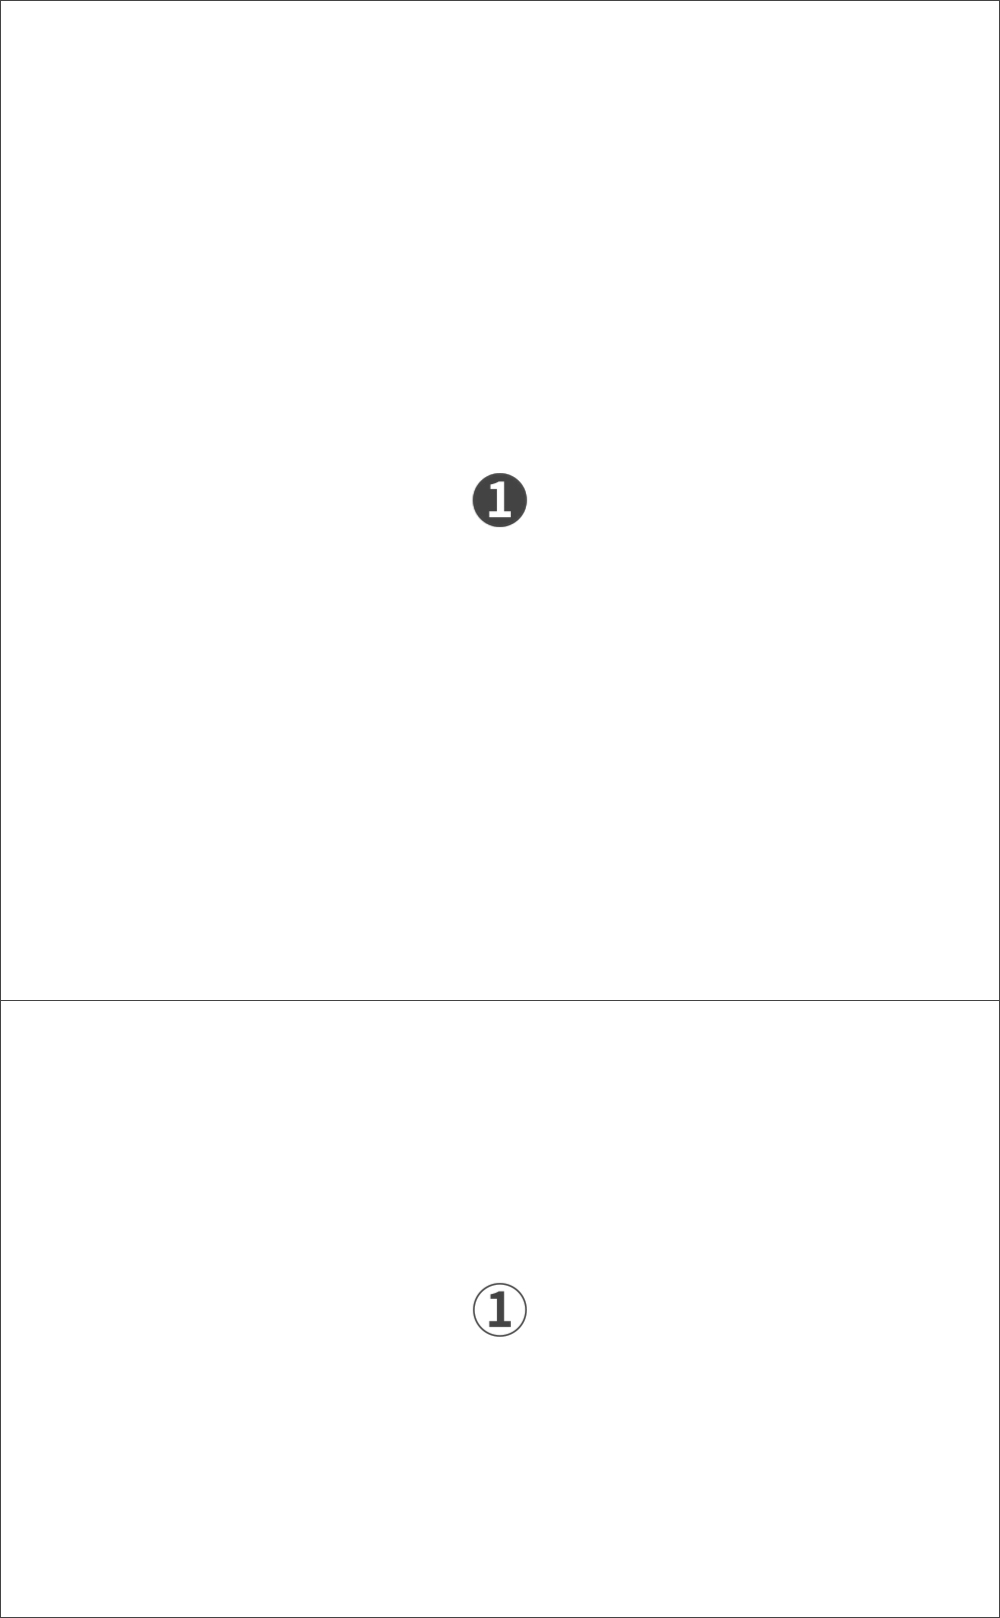
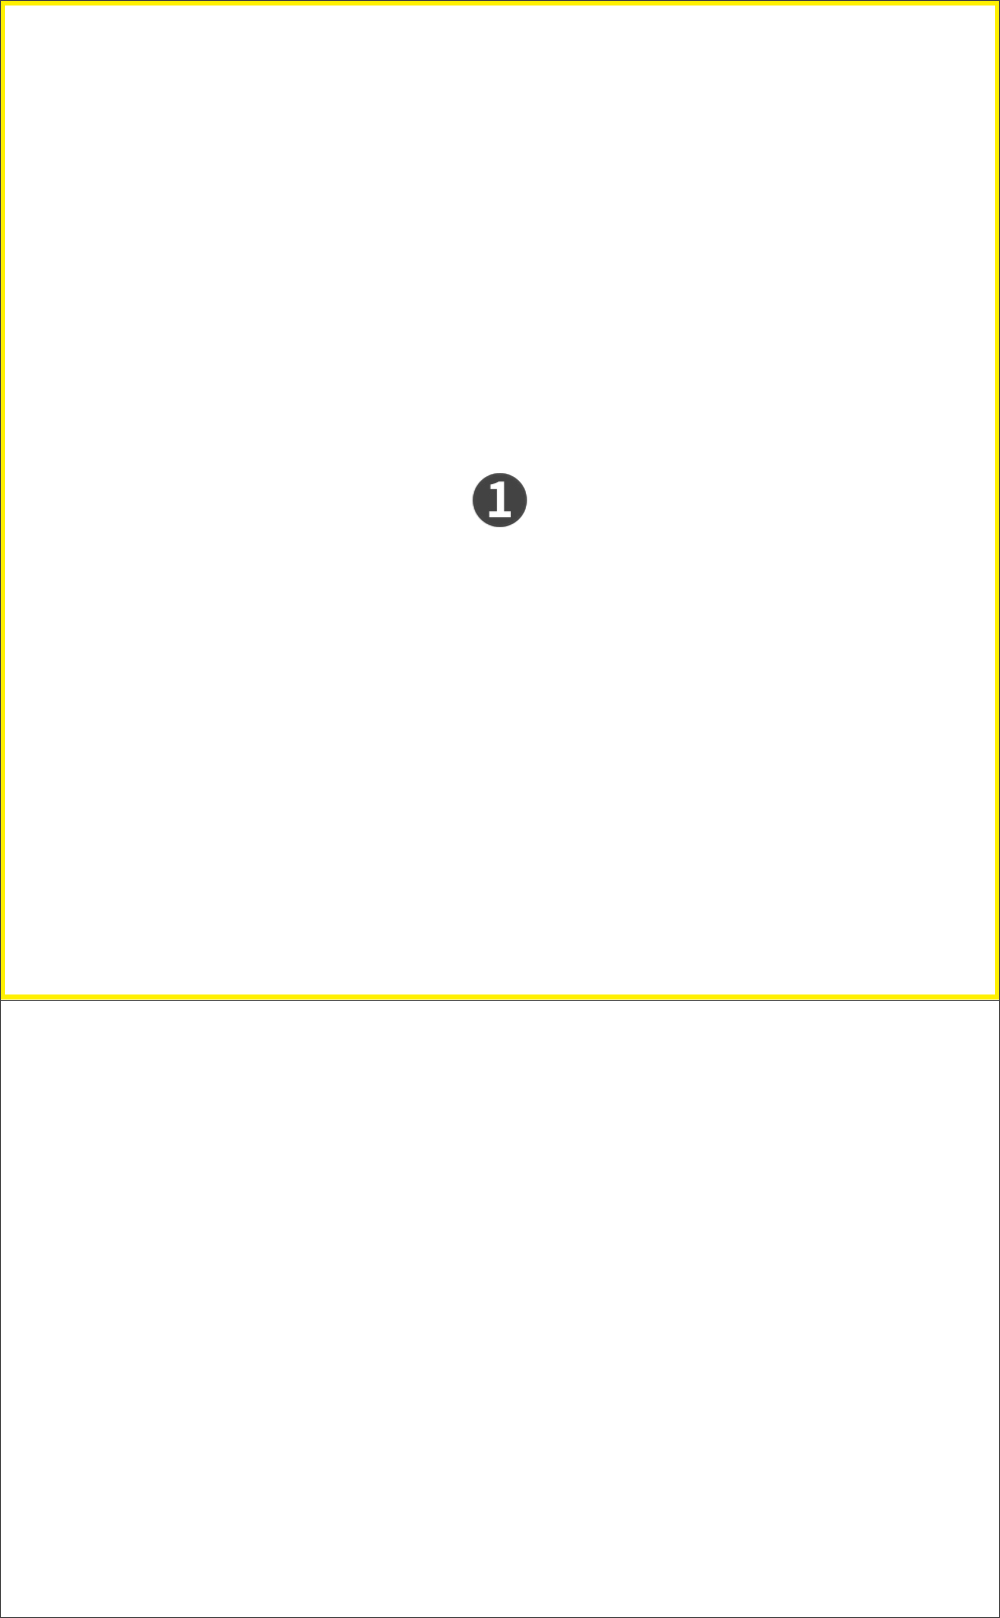
“こうしん”

Changed region(s): [[0.0, 0.0, 1.0, 0.618], [0.465, 0.7726, 0.527, 0.8344]]

diff --git a/posts/00.md b/posts/00.md
@@ -4,8 +4,17 @@ date: '2023-06-01'
 ---
 ![](/images/00.jpg)
 ***
-[00](/posts/00_00)  
-01　　02　　03　　04　　05  
-06　　07　　08　　09　　10
+まずは、④を探しましょう。
 ***
-[ ↲ 戻る ](/posts/0)
+![](/images/00_.jpg)
+***
+次に、自然界のバランスを探しましょう。
+***
+![](/images/00__.jpg)
+***
+***
+④を、4割、参考にするのと同時に、  
+自然界のバランスを、6割、参考にするのがコツです。
+***
+***
+[ 進む → ](https://thebase.in/inquiry/01234567890)

diff --git a/posts/11.md b/posts/11.md
@@ -4,8 +4,17 @@ date: '2023-02-01'
 ---
 ![](/images/11.jpg)
 ***
-[00](/posts/11_00)  
-01　　02　　03　　04　　05  
-06　　07　　08　　09　　10
+まずは、➊を探しましょう。
 ***
-[ ↲ 戻る ](/posts/0)
+![](/images/11_.jpg)
+***
+次に、①を探しましょう。
+***
+![](/images/11__.jpg)
+***
+***
+➊を、4割、参考にするのと同時に、  
+①を、6割、参考にするのがコツです。
+***
+***
+[ 進む → ](/posts/22)

diff --git a/posts/22.md b/posts/22.md
@@ -4,8 +4,17 @@ date: '2023-03-01'
 ---
 ![](/images/22.jpg)
 ***
-[00](/posts/22_00)  
-01　　02　　03　　04　　05  
-06　　07　　08　　09　　10
+まずは、➋を探しましょう。
 ***
-[ ↲ 戻る ](/posts/0)
+![](/images/22_.jpg)
+***
+次に、②を探しましょう。
+***
+![](/images/22__.jpg)
+***
+***
+➋を、4割、参考にするのと同時に、  
+②を、6割、参考にするのがコツです。
+***
+***
+[ 進む → ](/posts/33)

diff --git a/posts/33.md b/posts/33.md
@@ -4,8 +4,17 @@ date: '2023-04-01'
 ---
 ![](/images/33.jpg)
 ***
-[00](/posts/33_00)  
-01　　02　　03　　04　　05  
-06　　07　　08　　09　　10
+まずは、➌を探しましょう。
 ***
-[ ↲ 戻る ](/posts/0)
+![](/images/33_.jpg)
+***
+次に、③を探しましょう。
+***
+![](/images/33__.jpg)
+***
+***
+➌を、4割、参考にするのと同時に、  
+③を、6割、参考にするのがコツです。
+***
+***
+[ 進む → ](/posts/44)

diff --git a/posts/44.md b/posts/44.md
@@ -4,8 +4,17 @@ date: '2023-05-01'
 ---
 ![](/images/44.jpg)
 ***
-[00](/posts/44_00)  
-01　　02　　03　　04　　05  
-06　　07　　08　　09　　10
+まずは、➍を探しましょう。
 ***
-[ ↲ 戻る ](/posts/0)
+![](/images/44_.jpg)
+***
+次に、④を探しましょう。
+***
+![](/images/44__.jpg)
+***
+***
+➍を、4割、参考にするのと同時に、  
+④を、6割、参考にするのがコツです。
+***
+***
+[ 進む → ](/posts/00)

diff --git a/posts/0.md b/posts/0.md
@@ -2,8 +2,6 @@
 title: '歩むコツ'
 date: '2023-01-01'
 ---
-![](/images/0-12344.jpg)
-***
-[➊](/posts/11)　　[➋](/posts/22)　　[➌](/posts/33)　　[➍](/posts/44)　　[④](/posts/00)
-***
-[ ↲ 戻る ](https://01234567890.thebase.in/about)
+![](/images/0.jpg)
+
+[ 進む → ](/posts/11)
